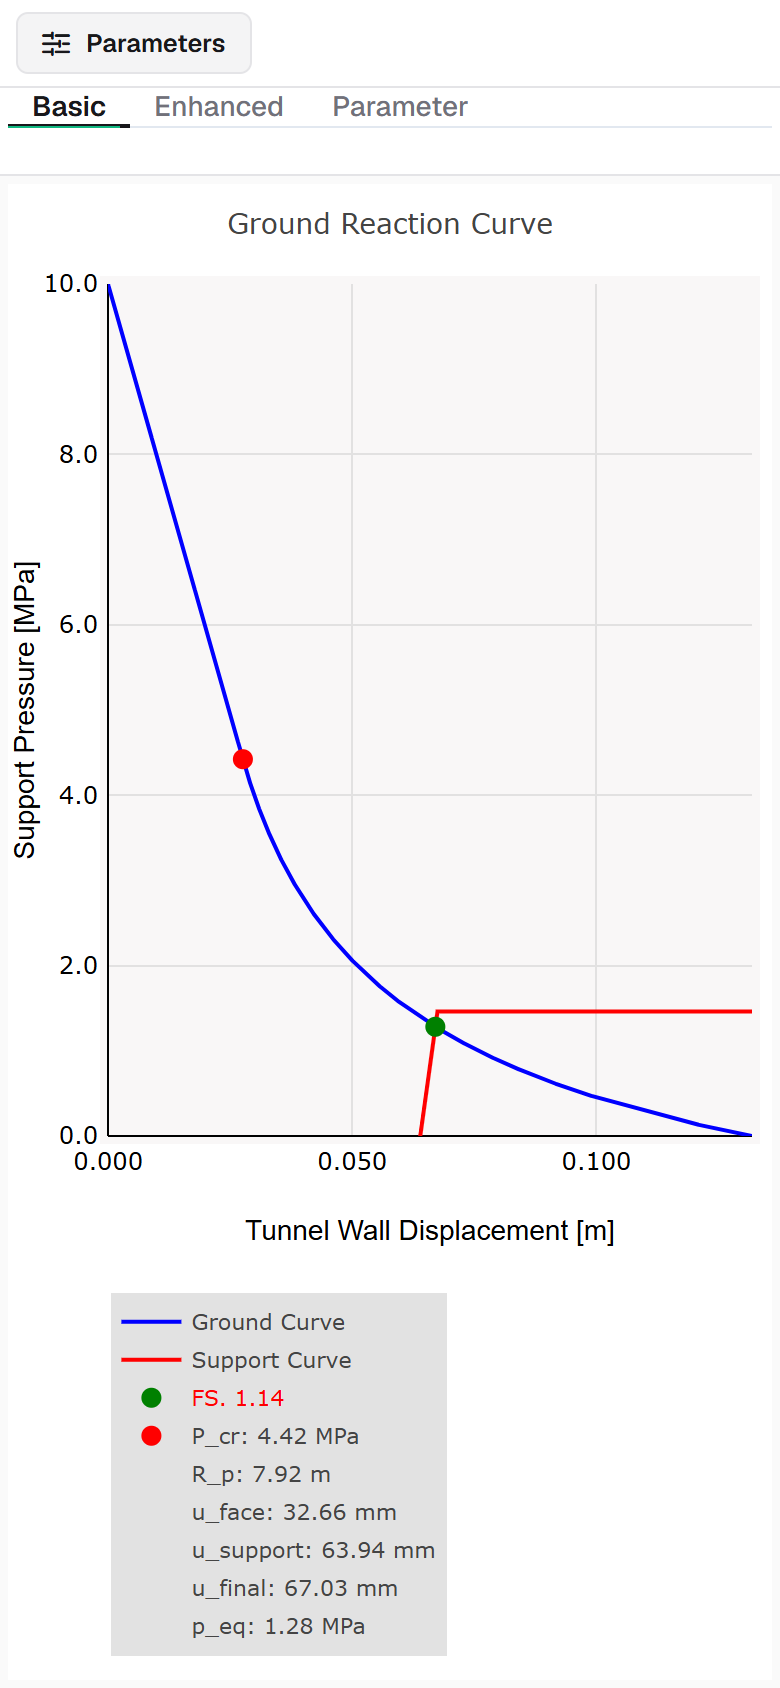
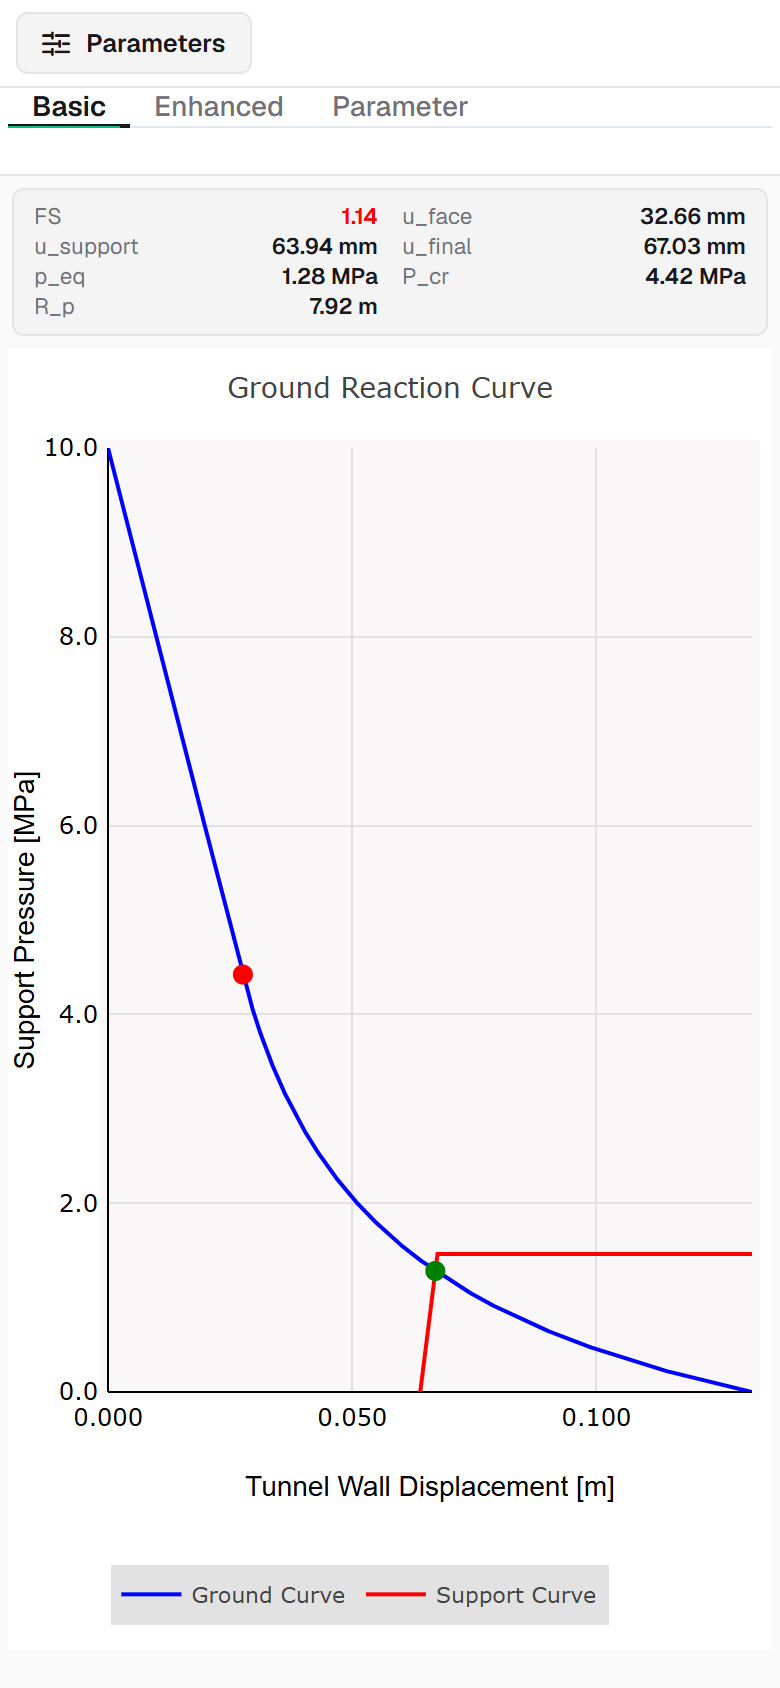
Prepare release 2.0.0
- package.json / package-lock.json version 2.0.0
- Change Log: entry "2.0.0 - web app" with the changes since v1.8.1
  (Electron removed, verification against Hoek / RocSupport /
  Gschwandtner / Entfellner, separate support curves, ideal-plastic after
  Hoek, LSC with ring force, LDP u_im correction, temperature strain up to
  96 h, strength constant beyond 28 d, phone layout)
- README: link to the live app https://groundcurve.onurkoc.net at the
  top; v1.8.1 marked as the last desktop version
- STATUS.md: release section and the open points after the release
  (Excel comparison LSC, multi-stage LSC, steel sets, t1 after Entfellner
  Gl. 6.18, strength and stiffness after Entfellner instead of Aldrian)
- Screenshots 390 px (Basic, Enhanced, Enhanced bottom, Parameter, RocSupport
  case 3) and desktop Parameter

diff --git a/STATUS.md b/STATUS.md
@@ -1,11 +1,11 @@
 # Status
 
-Stand: 2026-10-21, Branch `web` (nicht gemergt).
+Stand: 2026-10-21, Version 2.0.0, Branch `web` (Merge nach `main` mit Release 2.0.0).
 
 ## Erledigt
 
 - Electron vollständig entfernt; reine Vite-Web-App (`npm run dev | build | preview | test`), Ausgabe `dist/`.
-- Prüffälle mit `node --test` (`npm run test`, 38 Tests grün):
+- Prüffälle mit `node --test` (`npm run test`, 40 Tests grün):
   - Hoek, *Rock-Support Interaction* Fig. 4/6/7/13 (D 10 m, c 1500 kPa, φ 23°, E 1800 MPa, ν 0,3, p0 7 MPa, d_face 5 m):
     alle Sollwerte innerhalb der Rundung der Quelle; u_if/u_im 0,2625 vs. 0,2622 (Hoek dividiert durch gerundetes u_im).
   - RocSupport Verification Manual Problem 5 (r_pm, 4 Fälle): Abweichungen ≤ 0,005 m.
@@ -139,28 +139,34 @@ Offen gegenüber Entfellner:
 - **Festigkeit und E-Modul in der Zeit** nach Aldrian (Gl. V-41/V-42 bei Gschwandtner), nicht nach
   Entfellner Gl. 6.8–6.11.
 
-## Offene Punkte
+## Release 2.0.0
 
-1. **LSC mehrstufig** (Quelle: 3 Stufen, Anhang B: 600 / 700 / 1000 kN, 70 / 60 / 50 mm).
-2. **Stahlbögen nach Hoek**: noch nicht in der App. Vor Umsetzung klären, ob K_ss nach Gl. 15
+- Version 2.0.0 (`package.json`), Eintrag „2.0.0 – web app" im Change Log, Live-App
+  https://groundcurve.onurkoc.net (Custom Domain und Cache Rule richtet Onur im Cloudflare-Dashboard ein).
+- Behoben vor dem Release: μ_SpC = 0 ab 27,96 d (Festigkeit ab 671 h jetzt konstant; nur Golden-Set
+  `rateOfFlow` betroffen, 24 Punkte ab 28,16 d, μ_SpC dort 17,2 % statt 0).
+- Desktop v1.8.1 bleibt die letzte Desktop-Version; sie enthält den korrigierten u_im(p_i)-Fehler noch
+  (siehe *Erledigt*), kein neues Desktop-Release geplant. Ende der Zeitreihe vor/nach der Korrektur:
+
+  | Fall | u_eq [m] | Ende alt u [m] / t [d] | Ende neu u [m] / t [d] |
+  |---|---|---|---|
+  | (a) Standard ohne LSC | 0,06689 | 0,06672 / 14,03 | 0,06689 / 13,74 |
+  | (b) F_LSC 600, LSC 20 cm, ohne Anker | 0,09699 | 0,09640 / 14,22 | 0,09699 / 17,23 |
+  | (c) Fall C | 0,08772 | 0,08714 / 16,72 | 0,08771 / 15,70 |
+
+## Offen nach Release 2.0.0
+
+1. **Excel-Vergleich LSC**: App gegen `references/Gschwandtner_Ausbaukennlinien_AbbV-51.xlsx` (Abb. V-51,
+   Ausbaukennlinien mit Stauchelement und Ankern) prüfen.
+2. **LSC mehrstufig** (Quelle: 3 Stufen, Anhang B: 600 / 700 / 1000 kN, 70 / 60 / 50 mm).
+3. **Stahlbögen nach Hoek**: noch nicht in der App. Vor Umsetzung klären, ob K_ss nach Gl. 15
    (Hoek, *Rock-Support Interaction*) mit Fig. 13 übereinstimmt.
-3. **Prüfung auf echtem Handy** (bisher nur Browser-Emulator 390 × 844).
-4. **Desktop v1.8.1** enthält den korrigierten u_im(p_i)-Fehler noch (siehe *Erledigt*); kein neues Release geplant.
+4. **t1 nach Entfellner Gl. 6.18** (t1 = RL / AR · Δt): in der App 0 (Belastung sofort beim Einbau).
+5. **Festigkeit und E-Modul in der Zeit nach Entfellner Gl. 6.8–6.11** statt nach Aldrian.
 
-   Ende der Zeitreihe vor/nach der Korrektur:
+Weitere offene Punkte:
 
-   | Fall | u_eq [m] | Ende alt u [m] / t [d] | Ende neu u [m] / t [d] |
-   |---|---|---|---|
-   | (a) Standard ohne LSC | 0,06689 | 0,06672 / 14,03 | 0,06689 / 13,74 |
-   | (b) F_LSC 600, LSC 20 cm, ohne Anker | 0,09699 | 0,09640 / 14,22 | 0,09699 / 17,23 |
-   | (c) Fall C | 0,08772 | 0,08714 / 16,72 | 0,08771 / 15,70 |
-
-5. ~~**μ_SpC = 0 ab einem Alter von 27,96 d**~~ **behoben:** Die Festigkeitskurve (Aldrian) ist nur bis
-   671 h tabelliert; danach fand die Suche keinen Wert und μ_SpC wurde 0. Jetzt bleibt die Festigkeit ab 671 h
-   konstant auf dem letzten Wert. Betrifft nur Zeitreihen länger als 28 d: Golden-Set `rateOfFlow` (0,5 m/d,
-   bis 55 d), 24 Punkte ab 28,16 d, μ_SpC dort 17,2 % statt 0, am Ende 10,5 % statt 0. Übrige Golden-Sets
-   und Fall C unverändert.
-
+- Prüfung auf echtem Handy (bisher nur Browser-Emulator 390 × 844).
 Weitere Hinweise:
 
 - Fall C (App-Standard mit Ankern, LSC 20 cm, F_LSC 2400 kN/m, σ_N 12 MPa): u 0,08772 m, p 0,6987 MPa,

diff --git a/README.md b/README.md
@@ -1,10 +1,12 @@
 # GroundCurve — Tunnel Ground Reaction Analysis (JavaScript)
 
+**▶ Live app: [https://groundcurve.onurkoc.net](https://groundcurve.onurkoc.net)** — version 2.0.0
+
 A web application for analytical pre-design of tunnel support using the **Convergence-Confinement Method (CCM)**. This is the JavaScript reimplementation of the original Python version. It runs entirely in the browser (static site, hosted on Cloudflare Pages); no installation is needed.
 
-## ⬇ Letzte Desktop-Version v1.8.1
+## ⬇ Last desktop version v1.8.1
 
-**[GroundCurve-win32-x64.zip](https://github.com/onurkoc/ground-curve-JS/releases/download/v1.8.1/GroundCurve-win32-x64.zip)** — last desktop (Electron) release, Windows x64, no installation required. Extract and run `GroundCurve.exe`. The desktop version is no longer developed; new features are only added to the web app.
+**[GroundCurve-win32-x64.zip](https://github.com/onurkoc/ground-curve-JS/releases/download/v1.8.1/GroundCurve-win32-x64.zip)** — last desktop (Electron) release, Windows x64, no installation required. Extract and run `GroundCurve.exe`. The desktop version is no longer developed; new features are only added to the web app. It does not contain the fixes of 2.0.0 (see [Change Log](Change%20Log.txt)), e.g. the LDP correction under support pressure.
 
 ---
 
